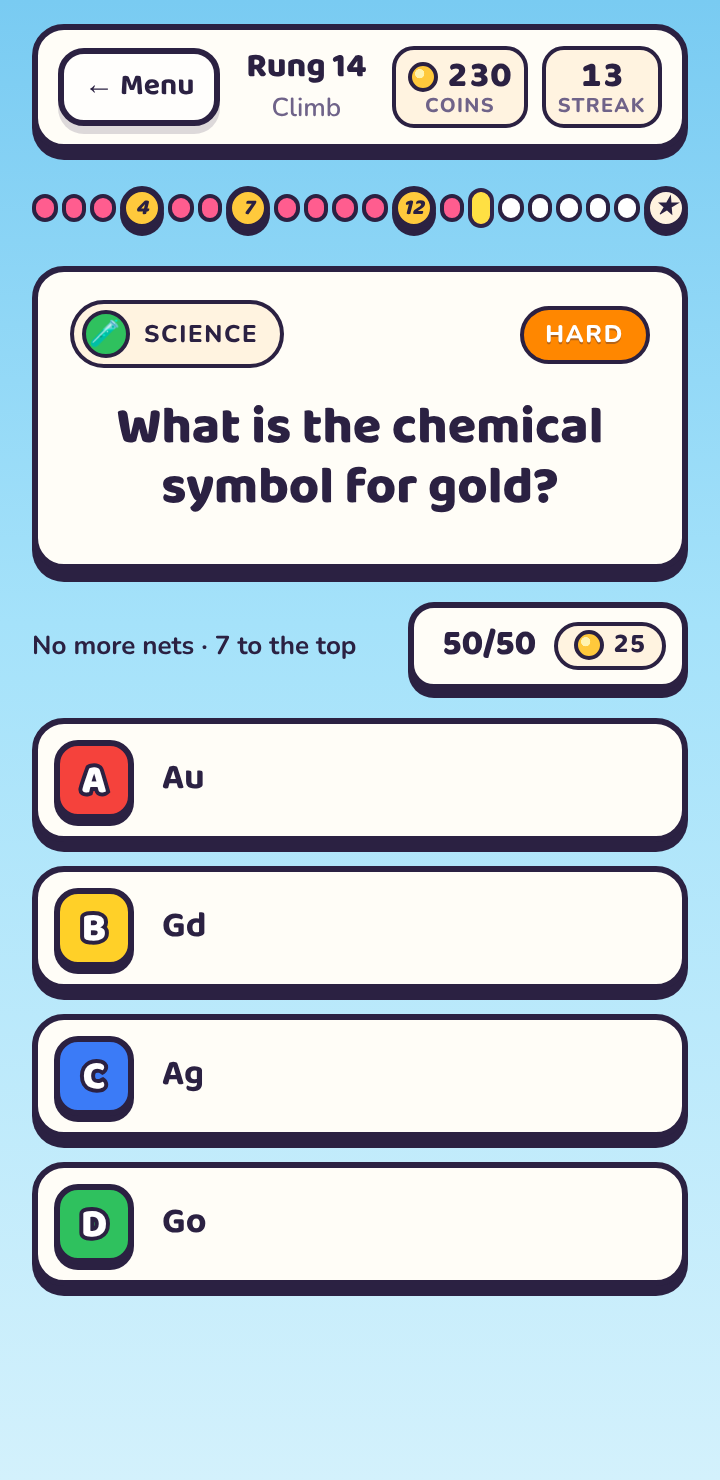
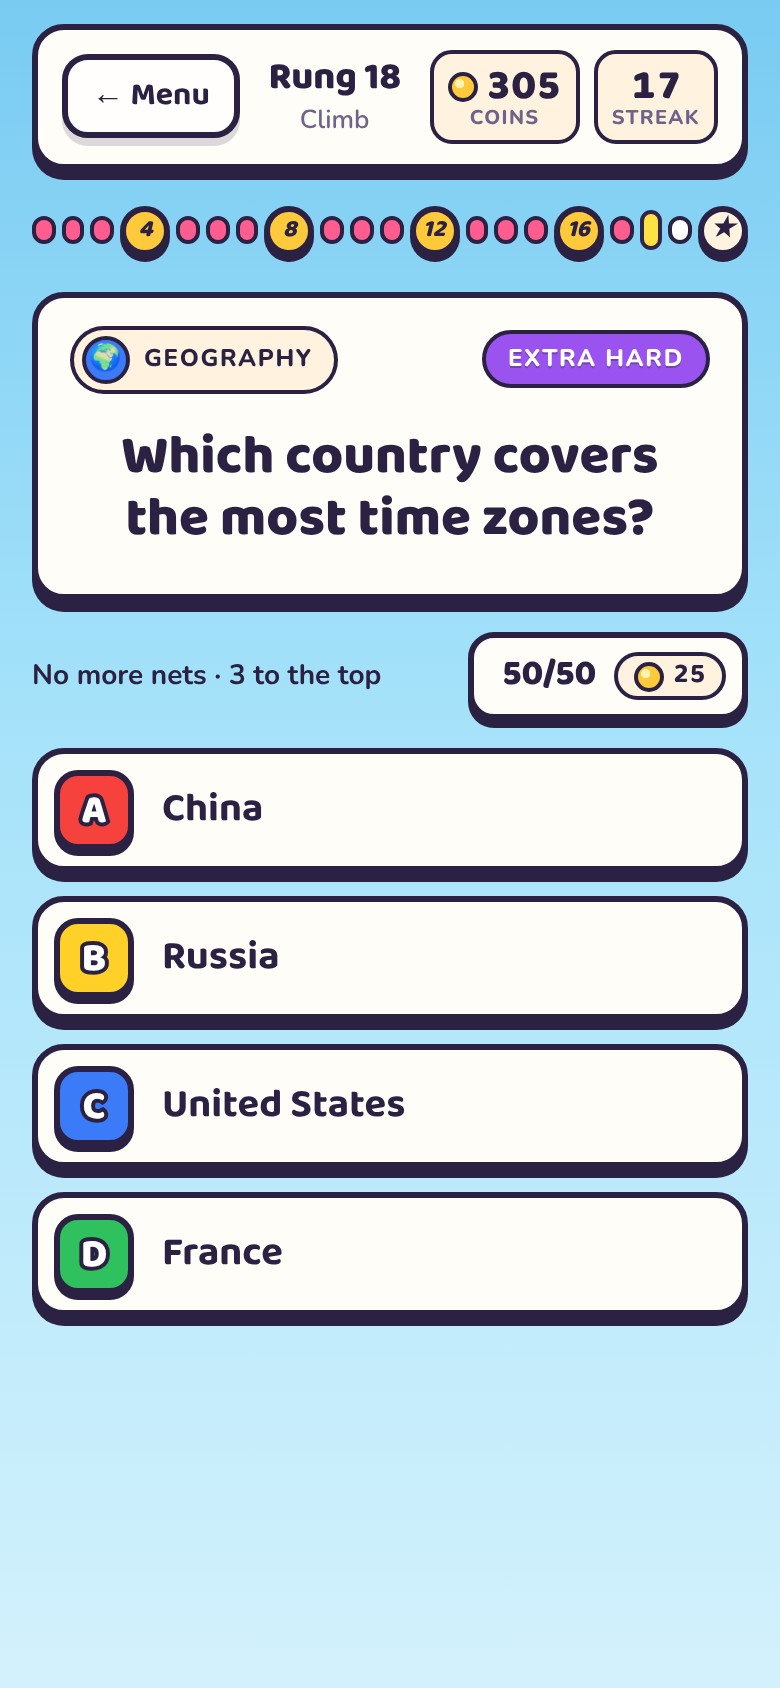
Safety nets every four rungs: 4, 8, 12 and 16
Difficulty bands now line up with the nets: easy 1-4, normal 5-8,
hard 9-16, extra hard 17-20. Screenshots retaken.

Claude-Session: https://claude.ai/code/session_013yA3rztD73qoU47xufJn3t

diff --git a/js/app.js b/js/app.js
@@ -1,7 +1,7 @@
 /* Endless Quiz — the Climb.
  *
- * A run is a 20-rung ladder that gets harder as it goes. Rungs 4, 7 and 12
- * are safety nets: a wrong answer drops you back to the last one you passed, so
+ * A run is a 20-rung ladder that gets harder as it goes. Every fourth rung
+ * (4, 8, 12, 16) is a safety net: a wrong answer drops you back to the last one you passed, so
  * a mistake costs progress but never the whole run.
  *
  * Coins are earned by answering and spent on the 50/50. Its price doubles
@@ -13,7 +13,7 @@
   'use strict';
 
   const RUNGS = 20;
-  const CHECKPOINTS = [4, 7, 12];
+  const CHECKPOINTS = [4, 8, 12, 16];
   const START_COINS = 100;
   const FIFTY_BASE = 25;
   const KEYS = ['A', 'B', 'C', 'D'];
@@ -46,8 +46,8 @@
 
   function difficultyFor(rung) {
     if (rung <= 4) return 'easy';
-    if (rung <= 9) return 'normal';
-    if (rung <= 15) return 'hard';
+    if (rung <= 8) return 'normal';
+    if (rung <= 16) return 'hard';
     return 'xhard';
   }
 

diff --git a/README.md b/README.md
@@ -20,12 +20,13 @@ A run is a **20-rung ladder** that gets harder as you go:
 | Rungs | Difficulty | Safety net |
 |-------|------------|------------|
 | 1–4   | Easy       | **4**      |
-| 5–9   | Normal     | **7**      |
-| 10–15 | Hard       | **12**     |
-| 16–20 | Extra Hard | none (the star is the top) |
+| 5–8   | Normal     | **8**      |
+| 9–12  | Hard       | **12**     |
+| 13–16 | Hard       | **16**     |
+| 17–20 | Extra Hard | none (the star is the top) |
 
-A wrong answer drops you back to the last safety net you passed, or to the
-bottom if you haven't reached rung 4 yet.
+There is a safety net every four rungs. A wrong answer drops you back to the
+last one you passed, or to the bottom if you haven't reached rung 4 yet.
 
 ## Coins and the 50/50
 
